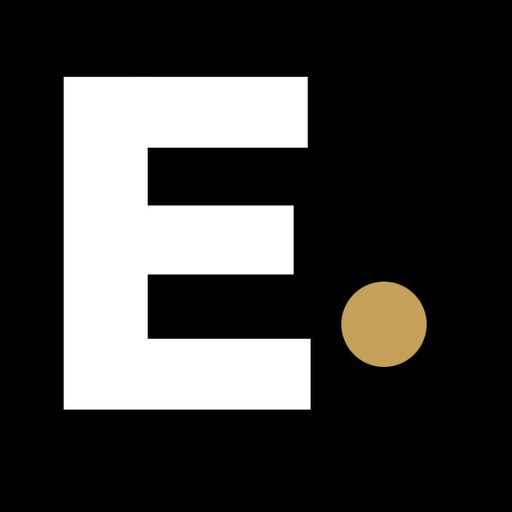
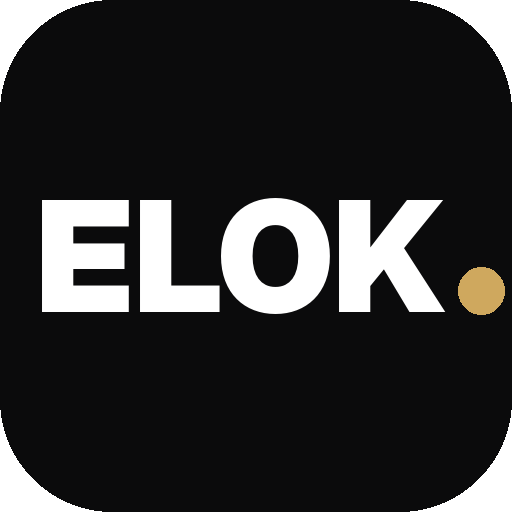
Ikona ELOK w kartach przeglądarki, nowe okładki case studies (każda w innym stylu)
Claude-Session: https://claude.ai/code/session_01BJZ6TBNnDsz7HNVzoNx3si

diff --git a/index.html b/index.html
@@ -26,7 +26,7 @@
 <a class="pcard rv tilt" href="marketing.html"><div class="glow"></div><span class="n">DODATEK</span><h3>Marketing</h3><p>Tworzymy skuteczne reklamy, które napędzają rozwój Twojej firmy.</p><ul><li>Google Ads</li><li>Facebook i Instagram</li><li>TikTok</li></ul><div class="foot"><span class="price">od <b>700 zł</b> netto / mc</span><span class="link">Zobacz →</span></div></a>
 </div></div></section>
 
-<section class="band"><div class="wrap vidsplit"><div><div class="phonevid rv"><video src="vid/o-nas.mp4" poster="img/p-o-nas.jpg" autoplay muted loop playsinline preload="metadata" aria-label="Film: poznaj ELOK"></video><button class="snd" type="button"><svg class="ic" viewBox="0 0 24 24" fill="none" stroke="currentColor" stroke-width="2" stroke-linecap="round" stroke-linejoin="round"><path d="M11 5L6 9H3v6h3l5 4z"/><path d="M15.5 8.5a5 5 0 010 7M18.5 5.5a9 9 0 010 13"/></svg>Włącz dźwięk</button></div></div><div class="rv"><div class="eyebrow">Poznaj nas w 40 sekund</div><h2 style="margin:12px 0 20px">Kim jesteśmy <span class="g">i co robimy.</span></h2><p class="lead">Automatyzacje, strony i marketing. Łączymy technologię z biznesem, tworząc rozwiązania rzeczywistych problemów.</p><div class="btns" style="margin-top:30px"><a class="btn pri mag" href="konsultacja.html">Umów bezpłatną konsultację <span class="ar">→</span></a><a class="btn sec" href="o-nas.html">Więcej o nas</a></div></div></div></section><section ><div class="wrap"><div class="shead rv"><div><div class="eyebrow">Case studies</div><h2>Zobacz, <span class="g">nasze realizacje.</span></h2></div><p class="lead">Sprawdź przykładowe wdrożenia, które realnie usprawniły pracę firm.</p></div><style>.newb{position:absolute;left:12px;top:12px;z-index:2;display:inline-flex;align-items:center;gap:7px;background:var(--gold);color:#120E06;font-weight:800;font-size:12.5px;letter-spacing:.08em;text-transform:uppercase;padding:6px 12px;border-radius:999px;box-shadow:0 8px 20px -8px rgba(0,0,0,.4)}.newb::before{content:"";width:7px;height:7px;border-radius:50%;background:#120E06;animation:nbp 1.6s ease-in-out infinite}@keyframes nbp{50%{opacity:.25}}.ctw{display:grid;grid-template-columns:1.25fr 1fr;margin-bottom:18px}.ctw .th{aspect-ratio:auto;min-height:100%;border-bottom:0;border-right:1px solid var(--line)}.ctw .bd{padding:34px 34px 30px;justify-content:center;gap:12px}.ctw h3{font-size:clamp(24px,2.6vw,32px)}.ctw p{font-size:17px}@media (max-width:860px){.ctw{grid-template-columns:1fr}.ctw .th{aspect-ratio:16/10;border-right:0;border-bottom:1px solid var(--line)}.ctw .bd{padding:22px}}</style><a class="ct ctw rv" href="realizacja-allegro.html"><div class="th"><img src="img/allegro/okladka.jpg" alt="Aplikacja do wystawiania części na Allegro" loading="lazy" style="object-position:center"><span class="newb">Nowa realizacja</span></div><div class="bd"><span class="tg">Automatyzacje · sprzedaż na Allegro</span><h3>Część na Allegro w minutę, prosto z telefonu</h3><p>Indywidualna aplikacja dla serwisu samochodowego: aparat czyta numer części, dane uzupełniają się z katalogu Allegro, a na każdą część drukuje się etykieta z kodem QR.</p><div class="ft"><b>1 skan</b><span>i oferta gotowa</span><em><svg class="ic" viewBox="0 0 24 24" fill="none" stroke="currentColor" stroke-width="2" stroke-linecap="round" stroke-linejoin="round"><path d="M5 12h14M13 6l6 6-6 6"/></svg></em></div></div></a><div class="cgrid"><a class="ct rv" href="realizacja-serwis.html" data-c="auto panel"><div class="th"><img src="img/serwis.jpg" alt="Od katalogu części do faktury bez przepisywania" loading="lazy"><span class="vb"><i><svg viewBox="0 0 24 24" fill="currentColor"><path d="M7 4.5v15l13-7.5z"/></svg></i>Film z działania</span></div><div class="bd"><span class="tg">Automatyzacje · serwis samochodowy</span><h3>Integracja elektronicznego katalogu części z systemem wycenowym</h3><p>Automatyzacja pozwala bezpośrednio zaciągać części z katalogu do wyceny zastępując dotychczasowe manualne przepisywanie.</p><div class="ft"><b>−87%</b><span>czasu poświęconego na wyceny</span><em><svg class="ic" viewBox="0 0 24 24" fill="none" stroke="currentColor" stroke-width="2" stroke-linecap="round" stroke-linejoin="round"><path d="M5 12h14M13 6l6 6-6 6"/></svg></em></div></div></a><a class="ct rv" href="realizacja-sklep.html" data-c="sklep auto"><div class="th"><img src="img/sklep.jpg" alt="Sklep, który sam pilnuje cen, stanów i dokumentów" loading="lazy"></div><div class="bd"><span class="tg">Sklep internetowy · części BMW i MINI</span><h3>Inteligentny sklep internetowy</h3><p>Sklep, który automatycznie zaciąga produkty, stany magazynowe i ceny z hurtowni, nadaje przesyłki, drukuje etykiety, wystawia faktury i wiele więcej.</p><div class="ft"><b>co noc</b><span>aktualne ceny i stany</span><em><svg class="ic" viewBox="0 0 24 24" fill="none" stroke="currentColor" stroke-width="2" stroke-linecap="round" stroke-linejoin="round"><path d="M5 12h14M13 6l6 6-6 6"/></svg></em></div></div></a><a class="ct rv" href="realizacja-panel.html" data-c="panel auto"><div class="th"><img src="img/panel.jpg" alt="Panel finansowy, który liczy sam" loading="lazy"></div><div class="bd"><span class="tg">Panel firmowy · e-commerce</span><h3>Panel finansowy</h3><p>Panel finansowy zbudowany dla sieci sklepów e-commerce działających pod jedną spółką pozwala na automatyczne i proste rozliczenie każdego sklepu.</p><div class="ft"><b>1 panel</b><span>zamiast kilku programów</span><em><svg class="ic" viewBox="0 0 24 24" fill="none" stroke="currentColor" stroke-width="2" stroke-linecap="round" stroke-linejoin="round"><path d="M5 12h14M13 6l6 6-6 6"/></svg></em></div></div></a></div></div></section>
+<section class="band"><div class="wrap vidsplit"><div><div class="phonevid rv"><video src="vid/o-nas.mp4" poster="img/p-o-nas.jpg" autoplay muted loop playsinline preload="metadata" aria-label="Film: poznaj ELOK"></video><button class="snd" type="button"><svg class="ic" viewBox="0 0 24 24" fill="none" stroke="currentColor" stroke-width="2" stroke-linecap="round" stroke-linejoin="round"><path d="M11 5L6 9H3v6h3l5 4z"/><path d="M15.5 8.5a5 5 0 010 7M18.5 5.5a9 9 0 010 13"/></svg>Włącz dźwięk</button></div></div><div class="rv"><div class="eyebrow">Poznaj nas w 40 sekund</div><h2 style="margin:12px 0 20px">Kim jesteśmy <span class="g">i co robimy.</span></h2><p class="lead">Automatyzacje, strony i marketing. Łączymy technologię z biznesem, tworząc rozwiązania rzeczywistych problemów.</p><div class="btns" style="margin-top:30px"><a class="btn pri mag" href="konsultacja.html">Umów bezpłatną konsultację <span class="ar">→</span></a><a class="btn sec" href="o-nas.html">Więcej o nas</a></div></div></div></section><section ><div class="wrap"><div class="shead rv"><div><div class="eyebrow">Case studies</div><h2>Zobacz, <span class="g">nasze realizacje.</span></h2></div><p class="lead">Sprawdź przykładowe wdrożenia, które realnie usprawniły pracę firm.</p></div><style>.newb{position:absolute;left:12px;top:12px;z-index:2;display:inline-flex;align-items:center;gap:7px;background:var(--gold);color:#120E06;font-weight:800;font-size:12.5px;letter-spacing:.08em;text-transform:uppercase;padding:6px 12px;border-radius:999px;box-shadow:0 8px 20px -8px rgba(0,0,0,.4)}.newb::before{content:"";width:7px;height:7px;border-radius:50%;background:#120E06;animation:nbp 1.6s ease-in-out infinite}@keyframes nbp{50%{opacity:.25}}.ctw{display:grid;grid-template-columns:1.25fr 1fr;margin-bottom:18px}.ctw .th{aspect-ratio:auto;min-height:100%;border-bottom:0;border-right:1px solid var(--line)}.ctw .bd{padding:34px 34px 30px;justify-content:center;gap:12px}.ctw h3{font-size:clamp(24px,2.6vw,32px)}.ctw p{font-size:17px}@media (max-width:860px){.ctw{grid-template-columns:1fr}.ctw .th{aspect-ratio:16/10;border-right:0;border-bottom:1px solid var(--line)}.ctw .bd{padding:22px}}</style><a class="ct ctw rv" href="realizacja-allegro.html"><div class="th"><img src="img/allegro/okladka.jpg" alt="Aplikacja do wystawiania części na Allegro" loading="lazy" style="object-position:center"><span class="newb">Nowa realizacja</span></div><div class="bd"><span class="tg">Automatyzacje · sprzedaż na Allegro</span><h3>Część na Allegro w minutę, prosto z telefonu</h3><p>Indywidualna aplikacja dla serwisu samochodowego: aparat czyta numer części, dane uzupełniają się z katalogu Allegro, a na każdą część drukuje się etykieta z kodem QR.</p><div class="ft"><b>1 skan</b><span>i oferta gotowa</span><em><svg class="ic" viewBox="0 0 24 24" fill="none" stroke="currentColor" stroke-width="2" stroke-linecap="round" stroke-linejoin="round"><path d="M5 12h14M13 6l6 6-6 6"/></svg></em></div></div></a><div class="cgrid"><a class="ct rv" href="realizacja-serwis.html" data-c="auto panel"><div class="th"><img src="img/okladka-serwis.jpg" style="object-position:center" alt="Od katalogu części do faktury bez przepisywania" loading="lazy"><span class="vb"><i><svg viewBox="0 0 24 24" fill="currentColor"><path d="M7 4.5v15l13-7.5z"/></svg></i>Film z działania</span></div><div class="bd"><span class="tg">Automatyzacje · serwis samochodowy</span><h3>Integracja elektronicznego katalogu części z systemem wycenowym</h3><p>Automatyzacja pozwala bezpośrednio zaciągać części z katalogu do wyceny zastępując dotychczasowe manualne przepisywanie.</p><div class="ft"><b>−87%</b><span>czasu poświęconego na wyceny</span><em><svg class="ic" viewBox="0 0 24 24" fill="none" stroke="currentColor" stroke-width="2" stroke-linecap="round" stroke-linejoin="round"><path d="M5 12h14M13 6l6 6-6 6"/></svg></em></div></div></a><a class="ct rv" href="realizacja-sklep.html" data-c="sklep auto"><div class="th"><img src="img/okladka-sklep.jpg" style="object-position:center" alt="Sklep, który sam pilnuje cen, stanów i dokumentów" loading="lazy"></div><div class="bd"><span class="tg">Sklep internetowy · części BMW i MINI</span><h3>Inteligentny sklep internetowy</h3><p>Sklep, który automatycznie zaciąga produkty, stany magazynowe i ceny z hurtowni, nadaje przesyłki, drukuje etykiety, wystawia faktury i wiele więcej.</p><div class="ft"><b>co noc</b><span>aktualne ceny i stany</span><em><svg class="ic" viewBox="0 0 24 24" fill="none" stroke="currentColor" stroke-width="2" stroke-linecap="round" stroke-linejoin="round"><path d="M5 12h14M13 6l6 6-6 6"/></svg></em></div></div></a><a class="ct rv" href="realizacja-panel.html" data-c="panel auto"><div class="th"><img src="img/okladka-panel.jpg" style="object-position:center" alt="Panel finansowy, który liczy sam" loading="lazy"></div><div class="bd"><span class="tg">Panel firmowy · e-commerce</span><h3>Panel finansowy</h3><p>Panel finansowy zbudowany dla sieci sklepów e-commerce działających pod jedną spółką pozwala na automatyczne i proste rozliczenie każdego sklepu.</p><div class="ft"><b>1 panel</b><span>zamiast kilku programów</span><em><svg class="ic" viewBox="0 0 24 24" fill="none" stroke="currentColor" stroke-width="2" stroke-linecap="round" stroke-linejoin="round"><path d="M5 12h14M13 6l6 6-6 6"/></svg></em></div></div></a></div></div></section>
 
 <section><div class="wrap"><div class="shead rv"><div><div class="eyebrow">Jak wygląda współpraca</div><h2>Cztery proste kroki.</h2></div></div><div class="steps"><div class="fill"></div><div><span class="n">KROK 1</span><h3>Konsultacja</h3><p>30 minut online. Dogłębnie poznajemy Twój problem i zbieramy potrzebne dane.</p></div><div><span class="n">KROK 2</span><h3>Plan i wycena</h3><p>Dostajesz gotowy projekt rozwiązania i konkretną wycenę.</p></div><div><span class="n">KROK 3</span><h3>Budowa</h3><p>Po akceptacji i dostosowaniu projektu tworzymy system, stronę lub kampanię i prowadzimy testy w rzeczywistym środowisku.</p></div><div><span class="n">KROK 4</span><h3>Start i rozwój</h3><p>Uczymy zespół, wdrażamy, dostosowujemy i zostajemy z Wami, żeby dalej pomagać w rozwoju.</p></div></div></div></section>
 

diff --git a/realizacje.html b/realizacje.html
@@ -11,7 +11,7 @@
 <button class="burger" id="burger" type="button" aria-label="Menu" aria-expanded="false"><i></i><i></i></button>
 </div>
 <div class="mob"><a href="automatyzacje.html">Automatyzacje</a><a href="strony.html">Strony i sklepy</a><a href="marketing.html">Marketing</a><a href="realizacje.html">Case studies</a><a href="cennik.html">Cennik</a><a href="o-nas.html">O nas</a><a class="btn pri" href="konsultacja.html">Bezpłatna konsultacja</a></div>
-</div></header><main id="top"><style>.newb{position:absolute;left:12px;top:12px;z-index:2;display:inline-flex;align-items:center;gap:7px;background:var(--gold);color:#120E06;font-weight:800;font-size:12.5px;letter-spacing:.08em;text-transform:uppercase;padding:6px 12px;border-radius:999px;box-shadow:0 8px 20px -8px rgba(0,0,0,.4)}.newb::before{content:"";width:7px;height:7px;border-radius:50%;background:#120E06;animation:nbp 1.6s ease-in-out infinite}@keyframes nbp{50%{opacity:.25}}.ctw{display:grid;grid-template-columns:1.25fr 1fr;margin-bottom:18px}.ctw .th{aspect-ratio:auto;min-height:100%;border-bottom:0;border-right:1px solid var(--line)}.ctw .bd{padding:34px 34px 30px;justify-content:center;gap:12px}.ctw h3{font-size:clamp(24px,2.6vw,32px)}.ctw p{font-size:17px}@media (max-width:860px){.ctw{grid-template-columns:1fr}.ctw .th{aspect-ratio:16/10;border-right:0;border-bottom:1px solid var(--line)}.ctw .bd{padding:22px}}</style><section class="phero"><div class="wrap"><div class="crumbs"><a href="index.html">ELOK</a> / Case studies</div><div class="eyebrow">Case studies</div><h1>Projekty <span class="g">w praktyce.</span></h1><p class="lead">Wybrane wdrożenia stron, platform e-commerce i automatyzacji procesów. Opracowanie wyzwań biznesowych, zastosowanej architektury oraz rezultatów.</p></div></section><section style="padding-top:0"><div class="wrap"><div class="cfil" id="cfil"><button type="button" class="on" data-c="all">Wszystkie</button><button type="button" data-c="auto">Automatyzacje</button><button type="button" data-c="sklep">Sklepy</button><button type="button" data-c="panel">Panele i systemy</button></div><div class="cgrid"><a class="ct ctw rv" href="realizacja-allegro.html" data-c="auto" style="grid-column:1/-1;margin-bottom:0"><div class="th"><img src="img/allegro/okladka.jpg" alt="Część na Allegro prosto z telefonu" loading="lazy" style="object-position:center"><span class="newb">Nowość</span></div><div class="bd"><span class="tg">Automatyzacje · sprzedaż na Allegro</span><h3>Część na Allegro w minutę, prosto z telefonu</h3><p>Indywidualna aplikacja dla serwisu samochodowego: aparat czyta numer części, dane uzupełniają się z katalogu Allegro, a na każdą część drukuje się etykieta z kodem QR.</p><div class="ft"><b>1 skan</b><span>i oferta gotowa</span><em><svg class="ic" viewBox="0 0 24 24" fill="none" stroke="currentColor" stroke-width="2" stroke-linecap="round" stroke-linejoin="round"><path d="M5 12h14M13 6l6 6-6 6"/></svg></em></div></div></a><a class="ct rv" href="realizacja-serwis.html" data-c="auto panel"><div class="th"><img src="img/serwis.jpg" alt="Od katalogu części do faktury bez przepisywania" loading="lazy"><span class="vb"><i><svg viewBox="0 0 24 24" fill="currentColor"><path d="M7 4.5v15l13-7.5z"/></svg></i>Film z działania</span></div><div class="bd"><span class="tg">Automatyzacje · serwis samochodowy</span><h3>Od katalogu części do faktury bez przepisywania</h3><p>Uproszczone przygotowanie wyceny, dostarczenie oferty mailowo i faktura w kilka kliknięć.</p><div class="ft"><b>−87%</b><span>czasu wyceny</span><em><svg class="ic" viewBox="0 0 24 24" fill="none" stroke="currentColor" stroke-width="2" stroke-linecap="round" stroke-linejoin="round"><path d="M5 12h14M13 6l6 6-6 6"/></svg></em></div></div></a><a class="ct rv" href="realizacja-sklep.html" data-c="sklep auto"><div class="th"><img src="img/sklep.jpg" alt="Sklep, który sam pilnuje cen, stanów i dokumentów" loading="lazy"></div><div class="bd"><span class="tg">Sklep internetowy · części BMW i MINI</span><h3>W pełni zautomatyzowany sklep internetowy</h3><p>W pełni zintegrowane hurtownie, automatyczne wysyłki, faktury i uzupełnianie stanów magazynowych.</p><div class="ft"><b>co noc</b><span>aktualne ceny i stany</span><em><svg class="ic" viewBox="0 0 24 24" fill="none" stroke="currentColor" stroke-width="2" stroke-linecap="round" stroke-linejoin="round"><path d="M5 12h14M13 6l6 6-6 6"/></svg></em></div></div></a><a class="ct rv" href="realizacja-panel.html" data-c="panel auto"><div class="th"><img src="img/panel.jpg" alt="Panel finansowy, który liczy sam" loading="lazy"></div><div class="bd"><span class="tg">Panel firmowy · e-commerce</span><h3>Panel finansowy do rozliczeń wewnątrz spółki</h3><p>Raporty kasowe, oferty i podatki dla dwóch marek wewnątrz jednej spółki.</p><div class="ft"><b>1 panel</b><span>łatwe i jasne rozliczenie</span><em><svg class="ic" viewBox="0 0 24 24" fill="none" stroke="currentColor" stroke-width="2" stroke-linecap="round" stroke-linejoin="round"><path d="M5 12h14M13 6l6 6-6 6"/></svg></em></div></div></a></div><div class="callout rv" style="margin-top:30px"><div><b>Twoja firma może być następna</b><p>Opowiedz, jak pracujesz, a pokażemy, co da się usprawnić.</p></div><a class="btn pri mag" href="konsultacja.html">Umów konsultację <span class="ar">→</span></a></div></div></section></main><footer class="pf"><div class="wrap">
+</div></header><main id="top"><style>.newb{position:absolute;left:12px;top:12px;z-index:2;display:inline-flex;align-items:center;gap:7px;background:var(--gold);color:#120E06;font-weight:800;font-size:12.5px;letter-spacing:.08em;text-transform:uppercase;padding:6px 12px;border-radius:999px;box-shadow:0 8px 20px -8px rgba(0,0,0,.4)}.newb::before{content:"";width:7px;height:7px;border-radius:50%;background:#120E06;animation:nbp 1.6s ease-in-out infinite}@keyframes nbp{50%{opacity:.25}}.ctw{display:grid;grid-template-columns:1.25fr 1fr;margin-bottom:18px}.ctw .th{aspect-ratio:auto;min-height:100%;border-bottom:0;border-right:1px solid var(--line)}.ctw .bd{padding:34px 34px 30px;justify-content:center;gap:12px}.ctw h3{font-size:clamp(24px,2.6vw,32px)}.ctw p{font-size:17px}@media (max-width:860px){.ctw{grid-template-columns:1fr}.ctw .th{aspect-ratio:16/10;border-right:0;border-bottom:1px solid var(--line)}.ctw .bd{padding:22px}}</style><section class="phero"><div class="wrap"><div class="crumbs"><a href="index.html">ELOK</a> / Case studies</div><div class="eyebrow">Case studies</div><h1>Projekty <span class="g">w praktyce.</span></h1><p class="lead">Wybrane wdrożenia stron, platform e-commerce i automatyzacji procesów. Opracowanie wyzwań biznesowych, zastosowanej architektury oraz rezultatów.</p></div></section><section style="padding-top:0"><div class="wrap"><div class="cfil" id="cfil"><button type="button" class="on" data-c="all">Wszystkie</button><button type="button" data-c="auto">Automatyzacje</button><button type="button" data-c="sklep">Sklepy</button><button type="button" data-c="panel">Panele i systemy</button></div><div class="cgrid"><a class="ct ctw rv" href="realizacja-allegro.html" data-c="auto" style="grid-column:1/-1;margin-bottom:0"><div class="th"><img src="img/allegro/okladka.jpg" alt="Część na Allegro prosto z telefonu" loading="lazy" style="object-position:center"><span class="newb">Nowość</span></div><div class="bd"><span class="tg">Automatyzacje · sprzedaż na Allegro</span><h3>Część na Allegro w minutę, prosto z telefonu</h3><p>Indywidualna aplikacja dla serwisu samochodowego: aparat czyta numer części, dane uzupełniają się z katalogu Allegro, a na każdą część drukuje się etykieta z kodem QR.</p><div class="ft"><b>1 skan</b><span>i oferta gotowa</span><em><svg class="ic" viewBox="0 0 24 24" fill="none" stroke="currentColor" stroke-width="2" stroke-linecap="round" stroke-linejoin="round"><path d="M5 12h14M13 6l6 6-6 6"/></svg></em></div></div></a><a class="ct rv" href="realizacja-serwis.html" data-c="auto panel"><div class="th"><img src="img/okladka-serwis.jpg" style="object-position:center" alt="Od katalogu części do faktury bez przepisywania" loading="lazy"><span class="vb"><i><svg viewBox="0 0 24 24" fill="currentColor"><path d="M7 4.5v15l13-7.5z"/></svg></i>Film z działania</span></div><div class="bd"><span class="tg">Automatyzacje · serwis samochodowy</span><h3>Od katalogu części do faktury bez przepisywania</h3><p>Uproszczone przygotowanie wyceny, dostarczenie oferty mailowo i faktura w kilka kliknięć.</p><div class="ft"><b>−87%</b><span>czasu wyceny</span><em><svg class="ic" viewBox="0 0 24 24" fill="none" stroke="currentColor" stroke-width="2" stroke-linecap="round" stroke-linejoin="round"><path d="M5 12h14M13 6l6 6-6 6"/></svg></em></div></div></a><a class="ct rv" href="realizacja-sklep.html" data-c="sklep auto"><div class="th"><img src="img/okladka-sklep.jpg" style="object-position:center" alt="Sklep, który sam pilnuje cen, stanów i dokumentów" loading="lazy"></div><div class="bd"><span class="tg">Sklep internetowy · części BMW i MINI</span><h3>W pełni zautomatyzowany sklep internetowy</h3><p>W pełni zintegrowane hurtownie, automatyczne wysyłki, faktury i uzupełnianie stanów magazynowych.</p><div class="ft"><b>co noc</b><span>aktualne ceny i stany</span><em><svg class="ic" viewBox="0 0 24 24" fill="none" stroke="currentColor" stroke-width="2" stroke-linecap="round" stroke-linejoin="round"><path d="M5 12h14M13 6l6 6-6 6"/></svg></em></div></div></a><a class="ct rv" href="realizacja-panel.html" data-c="panel auto"><div class="th"><img src="img/okladka-panel.jpg" style="object-position:center" alt="Panel finansowy, który liczy sam" loading="lazy"></div><div class="bd"><span class="tg">Panel firmowy · e-commerce</span><h3>Panel finansowy do rozliczeń wewnątrz spółki</h3><p>Raporty kasowe, oferty i podatki dla dwóch marek wewnątrz jednej spółki.</p><div class="ft"><b>1 panel</b><span>łatwe i jasne rozliczenie</span><em><svg class="ic" viewBox="0 0 24 24" fill="none" stroke="currentColor" stroke-width="2" stroke-linecap="round" stroke-linejoin="round"><path d="M5 12h14M13 6l6 6-6 6"/></svg></em></div></div></a></div><div class="callout rv" style="margin-top:30px"><div><b>Twoja firma może być następna</b><p>Opowiedz, jak pracujesz, a pokażemy, co da się usprawnić.</p></div><a class="btn pri mag" href="konsultacja.html">Umów konsultację <span class="ar">→</span></a></div></div></section></main><footer class="pf"><div class="wrap">
 <div class="lead-row"><h3>Masz w firmie coś, co <span class="g">zjada czas?</span> Pokażemy, jak oddać to systemowi.</h3>
 <div class="act"><a class="btn pri mag" href="konsultacja.html">Umów bezpłatną konsultację <span class="ar">→</span></a><span style="color:var(--mut);font-size:15.5px">30 minut online · bez zobowiązań</span></div></div>
 <div class="fstage"><div class="mark" aria-hidden="true">ELOK<span>.</span></div><div class="cols">

diff --git a/o-nas.html b/o-nas.html
@@ -25,7 +25,7 @@
 <section><div class="wrap split"><div class="rv"><div class="eyebrow">Branże</div><h2 style="margin:12px 0 18px">Znamy je <span class="g">od środka.</span></h2><p class="lead">Najlepiej znamy branże, w których sami działamy na co dzień.</p>
 <div class="tags"><span>Motoryzacja i serwisy</span><span>E-commerce i sklepy</span><span>Usługi lokalne</span><span>Biura i gabinety</span><span>Handel</span></div></div>
 <div class="prose rv"><div class="eyebrow">Poza pracą</div><h3 style="margin:12px 0 14px">Lubimy precyzję.</h3><p>Po pracy sport, motoryzacja i technologia. Fascynuje nas to, jak tysiące elementów składają się w jeden, dobrze działający silnik.</p><p>Tak samo patrzymy na firmy naszych klientów. Każdy proces ma działać płynnie, bez zgrzytów i bez zbędnej pracy.</p></div></div></section>
-<section class="band"><div class="wrap"><div class="shead rv"><div><div class="eyebrow">Case studies</div><h2>Zobacz, <span class="g">co już zbudowaliśmy.</span></h2></div></div><div class="cgrid"><a class="ct rv" href="realizacja-serwis.html" data-c="auto panel"><div class="th"><img src="img/serwis.jpg" alt="Od katalogu części do faktury bez przepisywania" loading="lazy"><span class="vb"><i><svg viewBox="0 0 24 24" fill="currentColor"><path d="M7 4.5v15l13-7.5z"/></svg></i>Film z działania</span></div><div class="bd"><span class="tg">Automatyzacje · serwis samochodowy</span><h3>Od katalogu części do faktury bez przepisywania</h3><p>Wycena, oferta mailem i faktura w jednym systemie.</p><div class="ft"><b>−87%</b><span>czasu na wyceny</span><em><svg class="ic" viewBox="0 0 24 24" fill="none" stroke="currentColor" stroke-width="2" stroke-linecap="round" stroke-linejoin="round"><path d="M5 12h14M13 6l6 6-6 6"/></svg></em></div></div></a><a class="ct rv" href="realizacja-sklep.html" data-c="sklep auto"><div class="th"><img src="img/sklep.jpg" alt="Sklep, który sam pilnuje cen, stanów i dokumentów" loading="lazy"></div><div class="bd"><span class="tg">Sklep internetowy · części BMW i MINI</span><h3>Sklep, który sam pilnuje cen, stanów i dokumentów</h3><p>Ceny z hurtowni co noc, wysyłki i dokumenty prawie bez klikania.</p><div class="ft"><b>co noc</b><span>aktualne ceny i stany</span><em><svg class="ic" viewBox="0 0 24 24" fill="none" stroke="currentColor" stroke-width="2" stroke-linecap="round" stroke-linejoin="round"><path d="M5 12h14M13 6l6 6-6 6"/></svg></em></div></div></a><a class="ct rv" href="realizacja-panel.html" data-c="panel auto"><div class="th"><img src="img/panel.jpg" alt="Panel finansowy, który liczy sam" loading="lazy"></div><div class="bd"><span class="tg">Panel firmowy · e-commerce</span><h3>Panel finansowy, który liczy sam</h3><p>Raporty kasowe, oferty i podatki dwóch marek w jednym miejscu.</p><div class="ft"><b>1 panel</b><span>zamiast kilku programów</span><em><svg class="ic" viewBox="0 0 24 24" fill="none" stroke="currentColor" stroke-width="2" stroke-linecap="round" stroke-linejoin="round"><path d="M5 12h14M13 6l6 6-6 6"/></svg></em></div></div></a></div></div></section></main><footer class="pf"><div class="wrap">
+<section class="band"><div class="wrap"><div class="shead rv"><div><div class="eyebrow">Case studies</div><h2>Zobacz, <span class="g">co już zbudowaliśmy.</span></h2></div></div><div class="cgrid"><a class="ct rv" href="realizacja-serwis.html" data-c="auto panel"><div class="th"><img src="img/okladka-serwis.jpg" style="object-position:center" alt="Od katalogu części do faktury bez przepisywania" loading="lazy"><span class="vb"><i><svg viewBox="0 0 24 24" fill="currentColor"><path d="M7 4.5v15l13-7.5z"/></svg></i>Film z działania</span></div><div class="bd"><span class="tg">Automatyzacje · serwis samochodowy</span><h3>Od katalogu części do faktury bez przepisywania</h3><p>Wycena, oferta mailem i faktura w jednym systemie.</p><div class="ft"><b>−87%</b><span>czasu na wyceny</span><em><svg class="ic" viewBox="0 0 24 24" fill="none" stroke="currentColor" stroke-width="2" stroke-linecap="round" stroke-linejoin="round"><path d="M5 12h14M13 6l6 6-6 6"/></svg></em></div></div></a><a class="ct rv" href="realizacja-sklep.html" data-c="sklep auto"><div class="th"><img src="img/okladka-sklep.jpg" style="object-position:center" alt="Sklep, który sam pilnuje cen, stanów i dokumentów" loading="lazy"></div><div class="bd"><span class="tg">Sklep internetowy · części BMW i MINI</span><h3>Sklep, który sam pilnuje cen, stanów i dokumentów</h3><p>Ceny z hurtowni co noc, wysyłki i dokumenty prawie bez klikania.</p><div class="ft"><b>co noc</b><span>aktualne ceny i stany</span><em><svg class="ic" viewBox="0 0 24 24" fill="none" stroke="currentColor" stroke-width="2" stroke-linecap="round" stroke-linejoin="round"><path d="M5 12h14M13 6l6 6-6 6"/></svg></em></div></div></a><a class="ct rv" href="realizacja-panel.html" data-c="panel auto"><div class="th"><img src="img/okladka-panel.jpg" style="object-position:center" alt="Panel finansowy, który liczy sam" loading="lazy"></div><div class="bd"><span class="tg">Panel firmowy · e-commerce</span><h3>Panel finansowy, który liczy sam</h3><p>Raporty kasowe, oferty i podatki dwóch marek w jednym miejscu.</p><div class="ft"><b>1 panel</b><span>zamiast kilku programów</span><em><svg class="ic" viewBox="0 0 24 24" fill="none" stroke="currentColor" stroke-width="2" stroke-linecap="round" stroke-linejoin="round"><path d="M5 12h14M13 6l6 6-6 6"/></svg></em></div></div></a></div></div></section></main><footer class="pf"><div class="wrap">
 <div class="lead-row"><h3>Masz w firmie coś, co <span class="g">zjada czas?</span> Pokażemy, jak oddać to systemowi.</h3>
 <div class="act"><a class="btn pri mag" href="konsultacja.html">Umów bezpłatną konsultację <span class="ar">→</span></a><span style="color:var(--mut);font-size:15.5px">30 minut online · bez zobowiązań</span></div></div>
 <div class="fstage"><div class="mark" aria-hidden="true">ELOK<span>.</span></div><div class="cols">
